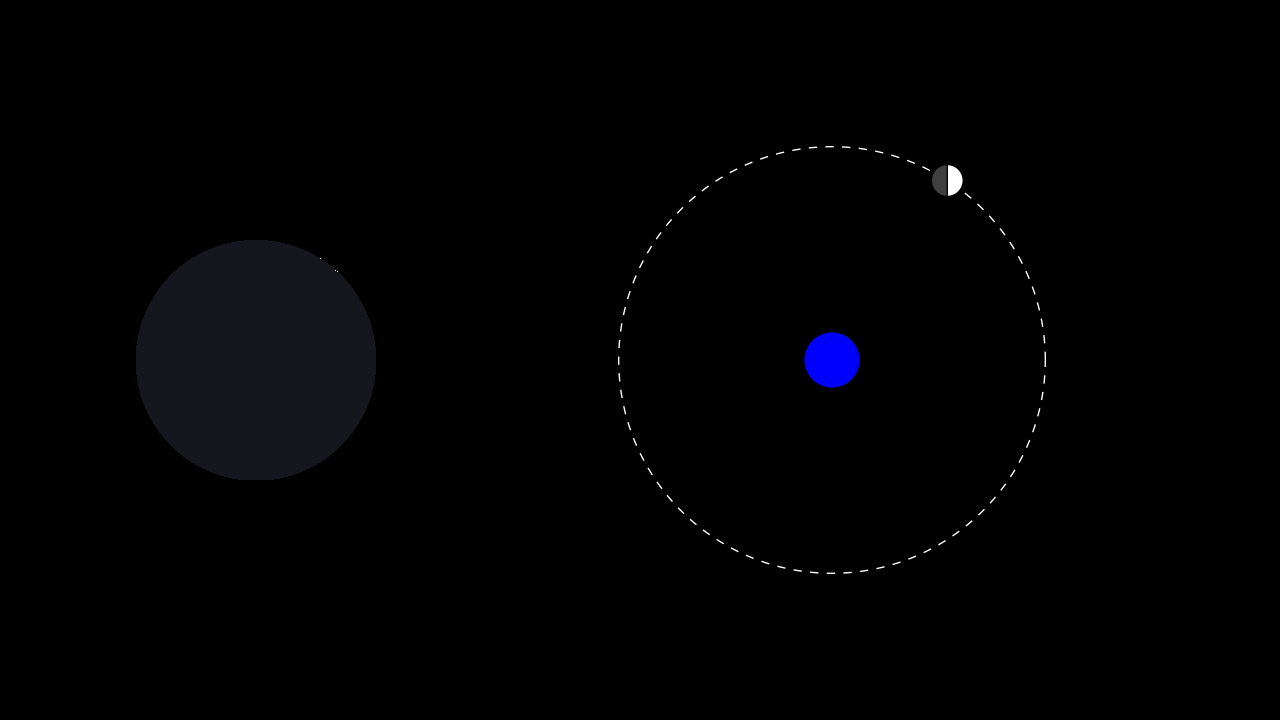
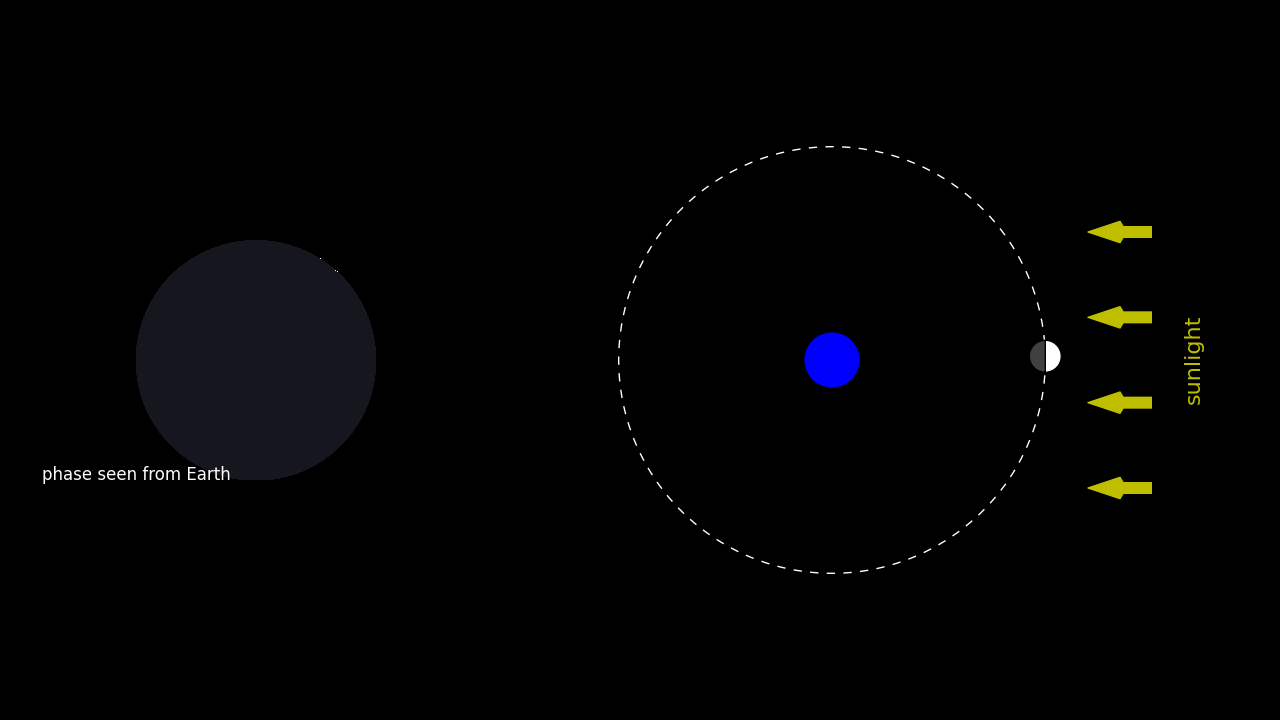
looks good

diff --git a/animations/lunar_phases/phases.py b/animations/lunar_phases/phases.py
@@ -1,13 +1,10 @@
 import pylab
 from mpl_toolkits.basemap import Basemap
 import numpy
-import math
 import matplotlib.cm as cm
 
 
 lon_center = numpy.linspace(0, 360, 361, endpoint=True)
-
-print lon_center
 
 lon = numpy.linspace(0, 360, 360)
 lat = numpy.linspace(-90, 90, 180)
@@ -33,6 +30,10 @@ while i < len(lon_center):
     map.drawmapboundary()
     map.pcolor(lonv, latv, data, latlon=True, cmap=cm.bone, vmin = 0.0, vmax=1.0)
 
+    ax = pylab.gca()
+    pylab.text(0.5, -0.2, "phase seen from Earth", 
+               horizontalalignment="center", color="w", 
+               transform=ax.transAxes)
 
     #-------------------------------------------------------------------------
     pylab.axes([0.4,0.1, 0.5, 0.8])
@@ -89,7 +90,7 @@ while i < len(lon_center):
     pylab.axis("off")
 
 
-    pylab.savefig("phase-{:02d}.png".format(i), facecolor=fig.get_facecolor())
+    pylab.savefig("phase-{:03d}.png".format(i), facecolor=fig.get_facecolor())
     pylab.close()
 
     i += 1
